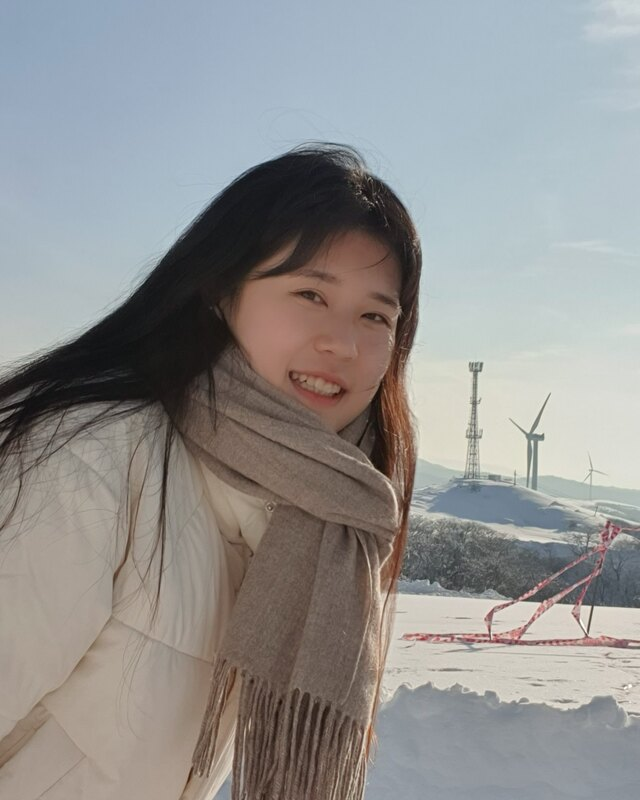
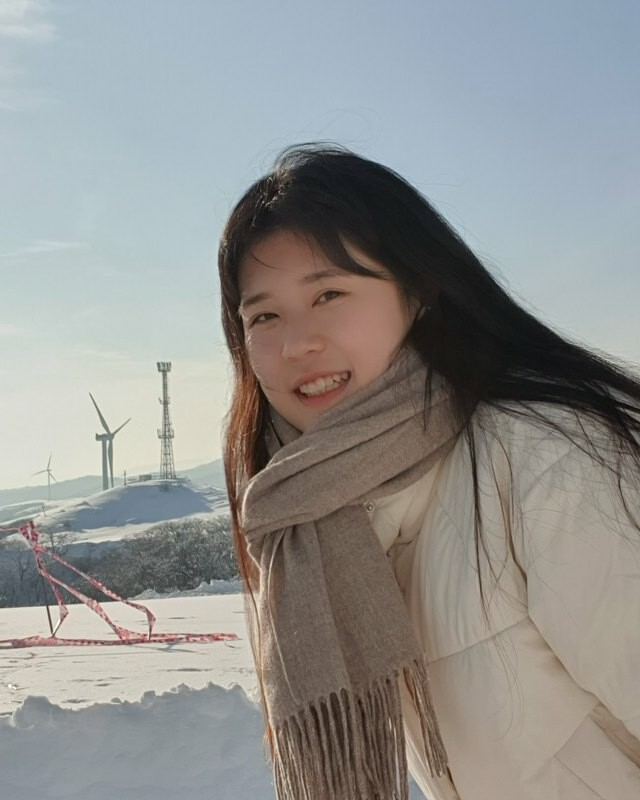
update

diff --git a/_sass/layout/_landing.scss b/_sass/layout/_landing.scss
@@ -3,7 +3,7 @@
    ========================================================================== */
 
 .landing {
-  --landing-ink: #1e2328;
+  --landing-ink: #241008;  /* matches the site accent */
   font-family: "Inter", -apple-system, BlinkMacSystemFont, "Segoe UI", Roboto,
     "Helvetica Neue", Arial, sans-serif;
   -webkit-font-smoothing: antialiased;
@@ -199,5 +199,153 @@ $landing-width: 1040px;
     img {
       object-position: 50% 35%;
     }
+  }
+}
+
+/* ---------- publications list (home page) ---------- */
+
+$mono: "JetBrains Mono", ui-monospace, SFMono-Regular, Menlo, Consolas, monospace;
+
+.pub-list {
+  margin-top: 0.4em;
+}
+
+.pub {
+  display: grid;
+  grid-template-columns: 260px minmax(0, 1fr);
+  gap: 32px;
+  align-items: center;
+  padding: 22px 0;
+
+  & + & {
+    border-top: 1px solid var(--global-border-color);
+  }
+}
+
+.pub__thumb {
+  display: block;
+  aspect-ratio: 16 / 9;
+  border: 1px solid var(--global-border-color);
+  border-radius: 14px;
+  overflow: hidden;
+  background: #f4f1ee;
+
+  img {
+    display: block;
+    width: 100%;
+    height: 100%;
+    object-fit: cover;
+    transition: transform 0.4s ease;
+  }
+
+  &:hover img {
+    transform: scale(1.04);
+  }
+}
+
+.page__content .pub__title {
+  margin: 0 0 0.45em;
+  padding: 0;
+  border: 0;
+  font-size: 1.08em;
+  font-weight: 700;
+  line-height: 1.35;
+  letter-spacing: -0.01em;
+
+  a {
+    color: var(--landing-ink);
+    text-decoration: none;
+
+    &:hover {
+      color: var(--global-link-color-hover);
+    }
+  }
+}
+
+.page__content .pub__authors {
+  margin: 0 0 0.6em;
+  color: #7d726b;
+  font-size: 0.82em;
+  line-height: 1.55;
+
+  b {
+    color: var(--landing-ink);
+  }
+}
+
+.page__content .pub__award {
+  display: flex;
+  align-items: center;
+  gap: 0.45em;
+  margin: -0.2em 0 0.7em;
+  color: #9a5b2e;
+  font-size: 0.78em;
+  font-weight: 600;
+}
+
+.pub__meta {
+  display: flex;
+  flex-wrap: wrap;
+  align-items: center;
+  gap: 10px 14px;
+}
+
+.pub__venue {
+  margin-right: 4px;
+  color: var(--landing-ink);
+  font-family: $mono;
+  font-size: 0.78em;
+  font-weight: 700;
+  letter-spacing: 0.02em;
+}
+
+.page__content .pub__btn {
+  display: inline-flex;
+  align-items: center;
+  gap: 0.5em;
+  padding: 5px 13px;
+  border: 1px solid #cfc6bf;
+  border-radius: 8px;
+  background: #fff;
+  color: var(--landing-ink);
+  font-family: $mono;
+  font-size: 0.74em;
+  font-weight: 500;
+  text-decoration: none;
+  transition: background 0.2s ease, color 0.2s ease, border-color 0.2s ease;
+
+  &:hover,
+  &:focus-visible {
+    border-color: var(--landing-ink);
+    background: var(--landing-ink);
+    color: #fff;
+    text-decoration: none;
+  }
+}
+
+.page__content .pub-more {
+  margin-top: 1em;
+  font-size: 0.85em;
+
+  a {
+    color: var(--landing-ink);
+    font-weight: 600;
+    text-decoration: none;
+
+    i {
+      margin-left: 0.3em;
+      transition: transform 0.2s ease;
+    }
+
+    &:hover i {
+      transform: translateX(3px);
+    }
+  }
+}
+
+@media (max-width: 760px) {
+  .pub {
+    grid-template-columns: 1fr;
+    gap: 14px;
   }
 }

diff --git a/_includes/home-publications.html b/_includes/home-publications.html
@@ -1,0 +1,49 @@
+{% include base_path %}
+{% comment %}
+  Publication list for the home page.
+  Shows papers with `show_on_home: true`, newest first.
+  Per-paper fields (in _publications/*.md):
+    thumbnail   – image path (falls back to nothing if missing)
+    authors     – author list; the site author's name is shown in bold
+    venue_short – short venue label, e.g. "CVPRW 2024"
+    award       – optional highlight line
+    paperurl    – Paper button link (falls back to the paper's page on this site)
+    codeurl     – GitHub button link (button hidden when empty)
+{% endcomment %}
+
+{% assign me = site.author.name %}
+{% capture me_bold %}<b>{{ me }}</b>{% endcapture %}
+{% assign pubs = site.publications | where_exp: "p", "p.show_on_home != false" | sort: "date" | reverse %}
+
+<div class="pub-list">
+  {% for pub in pubs %}
+  {% capture paper_link %}{% if pub.paperurl and pub.paperurl != "" %}{{ pub.paperurl }}{% else %}{{ base_path }}{{ pub.url }}{% endif %}{% endcapture %}
+  <article class="pub">
+    {% if pub.thumbnail %}
+    <a class="pub__thumb" href="{{ paper_link }}">
+      <img src="{{ base_path }}{{ pub.thumbnail }}" alt="" loading="lazy">
+    </a>
+    {% endif %}
+
+    <div class="pub__body">
+      <h3 class="pub__title"><a href="{{ paper_link }}">{{ pub.title }}</a></h3>
+      {% if pub.authors %}
+        <p class="pub__authors">{{ pub.authors | replace: me, me_bold }}</p>
+      {% endif %}
+      {% if pub.award %}
+        <p class="pub__award"><i class="fas fa-award" aria-hidden="true"></i>{{ pub.award }}</p>
+      {% endif %}
+
+      <div class="pub__meta">
+        <span class="pub__venue">{{ pub.venue_short | default: pub.venue }}</span>
+        <a class="pub__btn" href="{{ paper_link }}"><i class="fas fa-file-lines" aria-hidden="true"></i>Paper</a>
+        {% if pub.codeurl and pub.codeurl != "" %}
+          <a class="pub__btn" href="{{ pub.codeurl }}"><i class="fab fa-github" aria-hidden="true"></i>GitHub</a>
+        {% endif %}
+      </div>
+    </div>
+  </article>
+  {% endfor %}
+</div>
+
+<p class="pub-more"><a href="{{ base_path }}/publications/">See all publications <i class="fas fa-arrow-right" aria-hidden="true"></i></a></p>

diff --git a/_includes/head/custom.html b/_includes/head/custom.html
@@ -8,7 +8,7 @@
 <!-- Inter font (used on the home page) -->
 <link rel="preconnect" href="https://fonts.googleapis.com">
 <link rel="preconnect" href="https://fonts.gstatic.com" crossorigin>
-<link rel="stylesheet" href="https://fonts.googleapis.com/css2?family=Inter:wght@400;500;600;700;800&display=swap">
+<link rel="stylesheet" href="https://fonts.googleapis.com/css2?family=Inter:wght@400;500;600;700;800&family=JetBrains+Mono:wght@500;700&display=swap">
 
 <!-- Support for Academicons -->
 <link rel="preload" href="https://cdn.jsdelivr.net/gh/jpswalsh/academicons@1/css/academicons.min.css" as="style" onload="this.onload=null;this.rel='stylesheet'">

diff --git a/_publications/2024-06-17-h3net-irregular-posture-detection.md b/_publications/2024-06-17-h3net-irregular-posture-detection.md
@@ -6,6 +6,11 @@ permalink: /publication/2024-06-17-h3net-irregular-posture-detection
 excerpt: '**Seungha Noh**, Kangmin Bae, Yuseok Bae, Byoung-Dai Lee'
 date: 2024-06-17
 venue: 'IEEE/CVF Conference on Computer Vision and Pattern Recognition Workshops (CVPRW)'
-# paperurl: 'https://doi.org/...'   # add a link to the paper here
+authors: 'Seungha Noh, Kangmin Bae, Yuseok Bae, Byoung-Dai Lee'
+show_on_home: true   # false = hide this paper from the home page list (still on Publications/CV)
+venue_short: 'CVPRW 2024'
+thumbnail: '/images/publications/2024-06-17-h3net-irregular-posture-detection.png'   # replace this image file with your own figure
+paperurl: 'https://openaccess.thecvf.com/content/CVPR2024W/PRECOGNITION/html/Noh_H3Net_Irregular_Posture_Detection_by_Understanding_Human_Character_and_Core_CVPRW_2024_paper.html'      # uncomment + fill in to link the Paper button
+# codeurl: 'https://github.com/...'    # uncomment + fill in to show the GitHub button
 citation: '<b>Seungha Noh</b>, Kangmin Bae, Yuseok Bae, Byoung-Dai Lee. (2024). &quot;H<sup>3</sup>Net: Irregular Posture Detection by Understanding Human Character and Core Structures.&quot; <i>IEEE/CVF Conference on Computer Vision and Pattern Recognition Workshops (CVPRW)</i>, pp. 5631-5641.'
 ---

diff --git a/_publications/2025-07-01-text-image-similarity-prompt-ultrasound.md b/_publications/2025-07-01-text-image-similarity-prompt-ultrasound.md
@@ -6,6 +6,12 @@ permalink: /publication/2025-07-01-text-image-similarity-prompt-ultrasound
 excerpt: '**Seungha Noh**, Sunwoo Pi, Junhyeon Sim, Byoung-Dai Lee<br>**Outstanding Paper Award**'
 date: 2025-07-01
 venue: '20th Asia Pacific International Conference on Information Science and Technology (APIC-IST)'
-# paperurl: 'https://doi.org/...'   # add a link to the paper here
+authors: 'Seungha Noh, Sunwoo Pi, Junhyeon Sim, Byoung-Dai Lee'
+show_on_home: true   # false = hide this paper from the home page list (still on Publications/CV)
+venue_short: 'APIC-IST 2025'
+award: 'Outstanding Paper Award'
+thumbnail: '/images/publications/2025-07-01-text-image-similarity-prompt-ultrasound.png'   # replace this image file with your own figure
+# paperurl: 'https://doi.org/...'      # uncomment + fill in to link the Paper button
+# codeurl: 'https://github.com/...'    # uncomment + fill in to show the GitHub button
 citation: '<b>Seungha Noh</b>, Sunwoo Pi, Junhyeon Sim, Byoung-Dai Lee. (2025). &quot;Text-Image Similarity-Guided Prompt Automation for Ultrasound Image Segmentation.&quot; <i>20th Asia Pacific International Conference on Information Science and Technology (APIC-IST)</i>.'
 ---

diff --git a/_publications/2023-07-01-infant-abnormal-posture-detection.md b/_publications/2023-07-01-infant-abnormal-posture-detection.md
@@ -6,6 +6,11 @@ permalink: /publication/2023-07-01-infant-abnormal-posture-detection
 excerpt: 'Jeonghyo Kim, **Seungha Noh**, Sunwoo Pi, Wonbeen Im, Chanui Hong, Sangjin Kim'
 date: 2023-07-01
 venue: '18th Asia Pacific International Conference on Information Science and Technology (APIC-IST)'
-# paperurl: 'https://doi.org/...'   # add a link to the paper here
+authors: 'Jeonghyo Kim, Seungha Noh, Sunwoo Pi, Wonbeen Im, Chanui Hong, Sangjin Kim'
+show_on_home: true   # false = hide this paper from the home page list (still on Publications/CV)
+venue_short: 'APIC-IST 2023'
+thumbnail: '/images/publications/2023-07-01-infant-abnormal-posture-detection.png'   # replace this image file with your own figure
+# paperurl: 'https://doi.org/...'      # uncomment + fill in to link the Paper button
+# codeurl: 'https://github.com/...'    # uncomment + fill in to show the GitHub button
 citation: 'Jeonghyo Kim, <b>Seungha Noh</b>, Sunwoo Pi, Wonbeen Im, Chanui Hong, Sangjin Kim. (2023). &quot;An Algorithm based on Infant Abnormal Posture Detection through AI Pose Estimation.&quot; <i>18th Asia Pacific International Conference on Information Science and Technology (APIC-IST)</i>.'
 ---

diff --git a/_publications/2026-10-01-rebalancing-lesion-exposure-mstbi.md b/_publications/2026-10-01-rebalancing-lesion-exposure-mstbi.md
@@ -6,6 +6,12 @@ permalink: /publication/2026-10-01-rebalancing-lesion-exposure-mstbi
 excerpt: '**Seungha Noh**, Cheolhee Yu, Hyun Yang, Jin Tae Kwak<br>Accepted. 2nd place in the AIMS-TBI 2026 Challenge.'
 date: 2026-10-01
 venue: 'AIMS-TBI Workshop at MICCAI 2026'
-# paperurl: 'https://doi.org/...'   # add a link to the paper here
+authors: 'Seungha Noh, Cheolhee Yu, Hyun Yang, Jin Tae Kwak'
+show_on_home: true   # false = hide this paper from the home page list (still on Publications/CV)
+venue_short: 'MICCAI 2026 Workshop'
+award: '2nd Place (Tied), AIMS-TBI 2026 Challenge'
+thumbnail: '/images/publications/2026-10-01-rebalancing-lesion-exposure-mstbi.png'   # replace this image file with your own figure
+paperurl: 'https://papers.miccai.org/miccai-2026-sat/AIMS_TBI_004.html'      # uncomment + fill in to link the Paper button
+# codeurl: 'https://github.com/...'    # uncomment + fill in to show the GitHub button
 citation: '<b>Seungha Noh</b>, Cheolhee Yu, Hyun Yang, Jin Tae Kwak. (2026). &quot;Rebalancing Lesion Exposure: Instance-Aware Sampling for msTBI Lesion Segmentation.&quot; <i>AIMS-TBI Workshop at MICCAI 2026</i>.'
 ---

diff --git a/_publications/2025-06-01-narrative-review-foundation-models-segmentation.md b/_publications/2025-06-01-narrative-review-foundation-models-segmentation.md
@@ -6,6 +6,12 @@ permalink: /publication/2025-06-01-narrative-review-foundation-models-segmentati
 excerpt: '**Seungha Noh**, Byoung-Dai Lee'
 date: 2025-06-01
 venue: 'Quantitative Imaging in Medicine and Surgery'
-# paperurl: 'https://doi.org/...'   # add a link to the paper here
+authors: 'Seungha Noh, Byoung-Dai Lee'
+show_on_home: true   # false = hide this paper from the home page list (still on Publications/CV)
+award: 'Outstanding Author Award'
+venue_short: 'QIMS 2025'
+thumbnail: '/images/publications/2025-06-01-narrative-review-foundation-models-segmentation.png'   # replace this image file with your own figure
+paperurl: 'https://doi.org/10.21037/qims-2024-2826'      # uncomment + fill in to link the Paper button
+# codeurl: 'https://github.com/...'    # uncomment + fill in to show the GitHub button
 citation: '<b>Seungha Noh</b>, Byoung-Dai Lee. (2025). &quot;A Narrative Review of Foundation Models for Medical Image Segmentation: Zero-Shot Performance Evaluation on Diverse Modalities.&quot; <i>Quantitative Imaging in Medicine and Surgery</i>, vol. 15, no. 6.'
 ---

diff --git a/_publications/2026-01-01-confidence-guided-refinement-catheter-tube.md b/_publications/2026-01-01-confidence-guided-refinement-catheter-tube.md
@@ -6,6 +6,11 @@ permalink: /publication/2026-01-01-confidence-guided-refinement-catheter-tube
 excerpt: '**Seungha Noh**, Sun-Woo Pi, Byoung-Dai Lee<br>To appear.'
 date: 2026-01-01
 venue: 'Journal of Imaging Informatics in Medicine'
-# paperurl: 'https://doi.org/...'   # add a link to the paper here
+authors: 'Seungha Noh, Sun-Woo Pi, Byoung-Dai Lee'
+show_on_home: true   # false = hide this paper from the home page list (still on Publications/CV)
+venue_short: 'accepted in JIIM 2026'
+thumbnail: '/images/publications/2026-01-01-confidence-guided-refinement-catheter-tube.png'   # replace this image file with your own figure
+# paperurl: 'https://doi.org/...'      # uncomment + fill in to link the Paper button
+# codeurl: 'https://github.com/...'    # uncomment + fill in to show the GitHub button
 citation: '<b>Seungha Noh</b>, Sun-Woo Pi, Byoung-Dai Lee. (2026). &quot;Confidence-Guided Refinement with Separate Update and Reference Regions for Catheter and Tube Path Segmentation in Chest Radiographs.&quot; <i>Journal of Imaging Informatics in Medicine</i>.'
 ---

diff --git a/_publications/2025-04-01-ankle-joint-instability-deep-learning.md b/_publications/2025-04-01-ankle-joint-instability-deep-learning.md
@@ -6,6 +6,11 @@ permalink: /publication/2025-04-01-ankle-joint-instability-deep-learning
 excerpt: '**Seungha Noh**, Mu Sook Lee, Byoung-Dai Lee'
 date: 2025-04-01
 venue: 'Scientific Reports'
-# paperurl: 'https://doi.org/...'   # add a link to the paper here
+authors: 'Seungha Noh, Mu Sook Lee, Byoung-Dai Lee'
+show_on_home: true   # false = hide this paper from the home page list (still on Publications/CV)
+venue_short: 'Scientific Reports 2025'
+thumbnail: '/images/publications/2025-04-01-ankle-joint-instability-deep-learning.png'   # replace this image file with your own figure
+paperurl: 'https://www.nature.com/articles/s41598-025-99620-6'      # uncomment + fill in to link the Paper button
+# codeurl: 'https://github.com/...'    # uncomment + fill in to show the GitHub button
 citation: '<b>Seungha Noh</b>, Mu Sook Lee, Byoung-Dai Lee. (2025). &quot;Automated radiography assessment of ankle joint instability using deep learning.&quot; <i>Scientific Reports</i>, vol. 15, no. 1, p. 15012.'
 ---

diff --git a/_pages/about.md b/_pages/about.md
@@ -34,3 +34,7 @@ News
 - **[2025]** Received the **Outstanding Paper Award** at APIC-IST 2025.
 - **[2025]** Papers published in **Scientific Reports** and **Quantitative Imaging in Medicine and Surgery**.
 - **[2024]** One paper published at **CVPR Workshops 2024**.
+
+Publications
+======
+{% include home-publications.html %}
